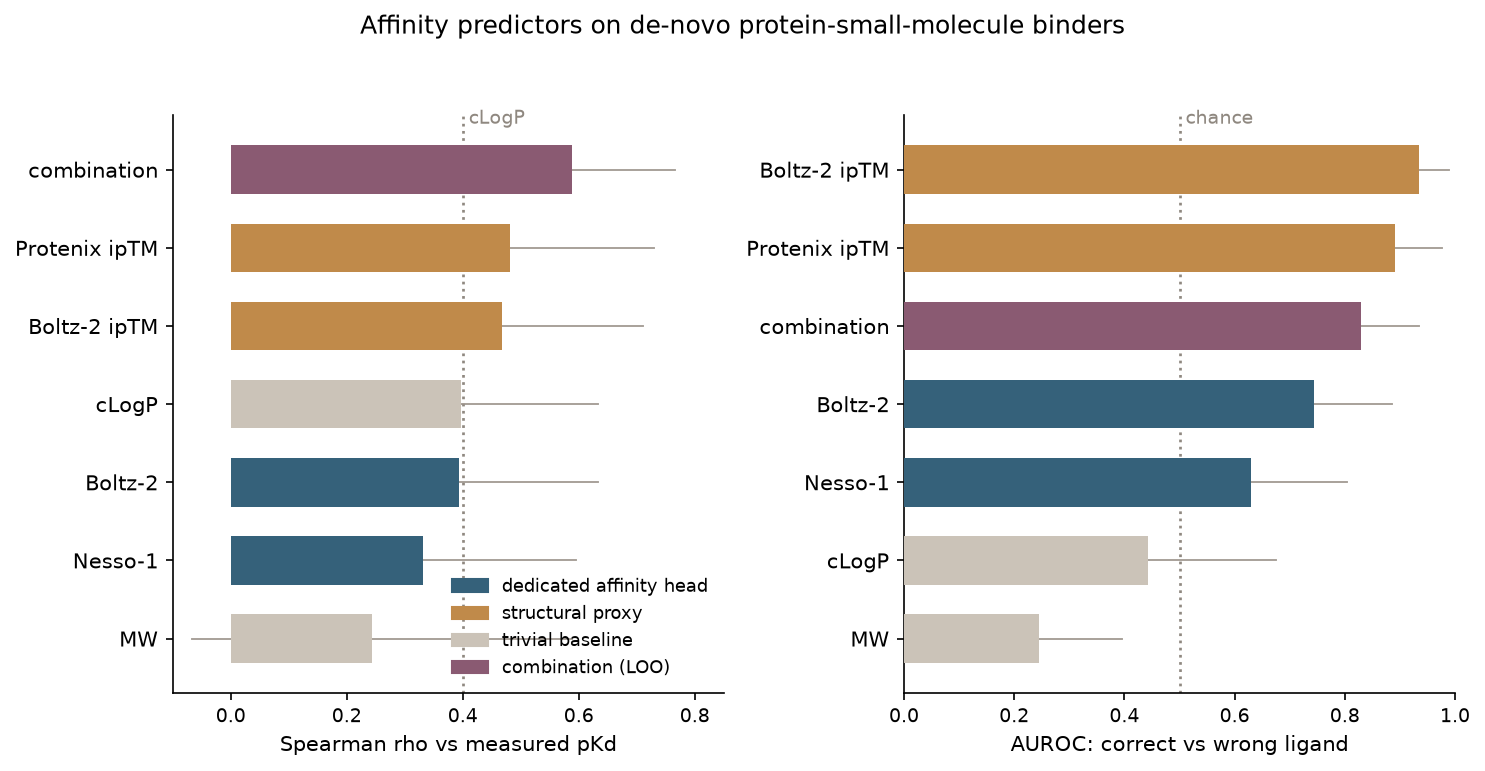
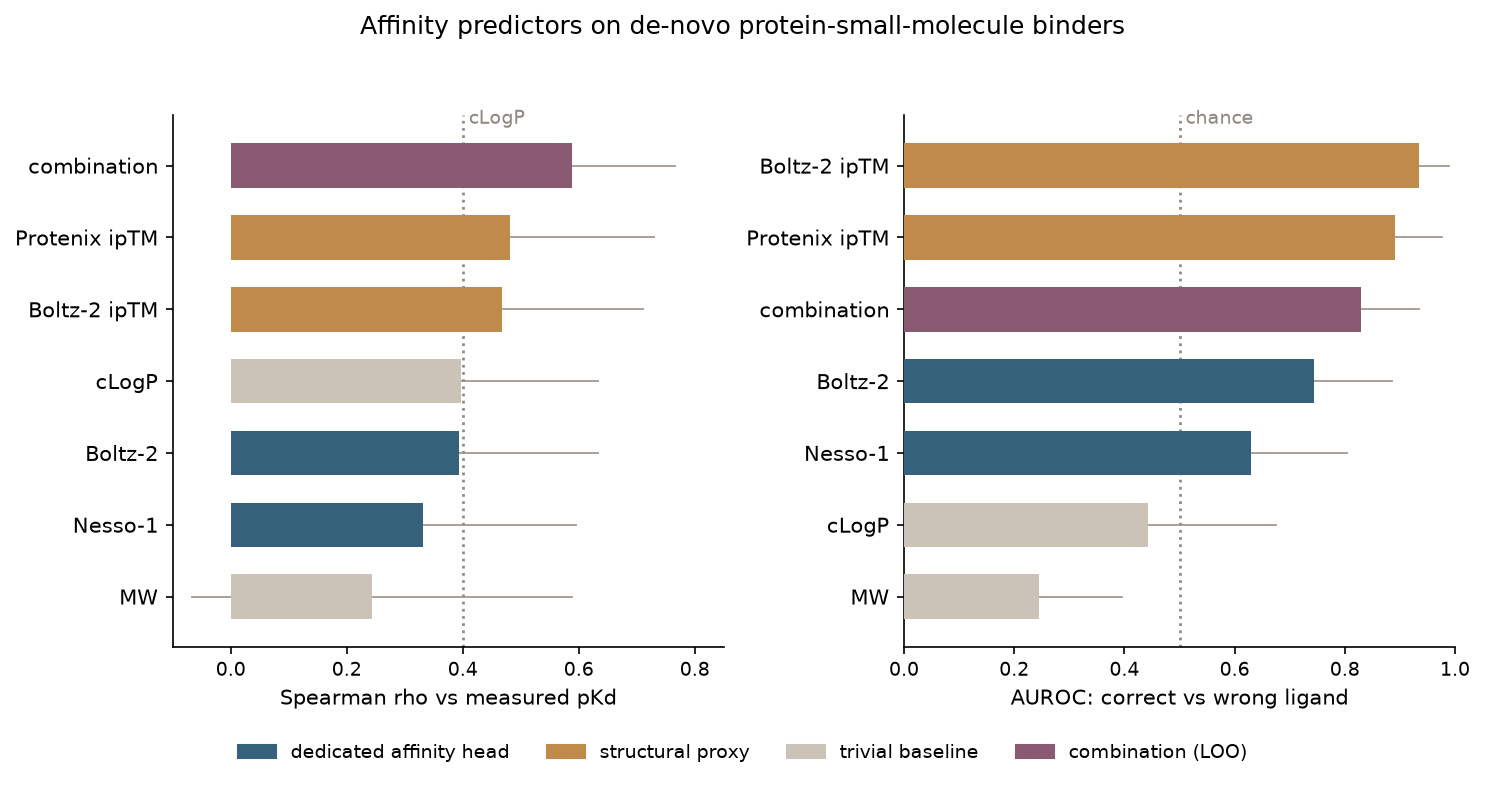
Move legend below panels (no bar clash)

diff --git a/scripts/make_figure.py b/scripts/make_figure.py
@@ -56,11 +56,12 @@ def main():
     fig, (a, b) = plt.subplots(1, 2, figsize=(10, 5.2))
     bars(a, reg, 0.40, "cLogP", "Spearman rho vs measured pKd", (-0.1, 0.85))
     bars(b, spec, 0.5, "chance", "AUROC: correct vs wrong ligand", (0.0, 1.0))
-    handles = [plt.Rectangle((0, 0), 1, 1, color=COL[c]) for c in ("aff", "prox", "base", "combo")]
-    a.legend(handles, [LABEL[c] for c in ("aff", "prox", "base", "combo")], fontsize=8.5,
-             loc="lower right", frameon=False)
+    cats = ("aff", "prox", "base", "combo")
+    handles = [plt.Rectangle((0, 0), 1, 1, color=COL[c]) for c in cats]
+    fig.legend(handles, [LABEL[c] for c in cats], fontsize=9, loc="lower center",
+               ncol=4, frameon=False, bbox_to_anchor=(0.5, 0.0))
     fig.suptitle("Affinity predictors on de-novo protein-small-molecule binders", fontsize=12)
-    fig.tight_layout(rect=(0, 0, 1, 0.95))
+    fig.tight_layout(rect=(0, 0.06, 1, 0.95))
     out = ROOT / "figures" / "benchmark.png"
     fig.savefig(out, dpi=150, bbox_inches="tight")
     print("saved", out)
